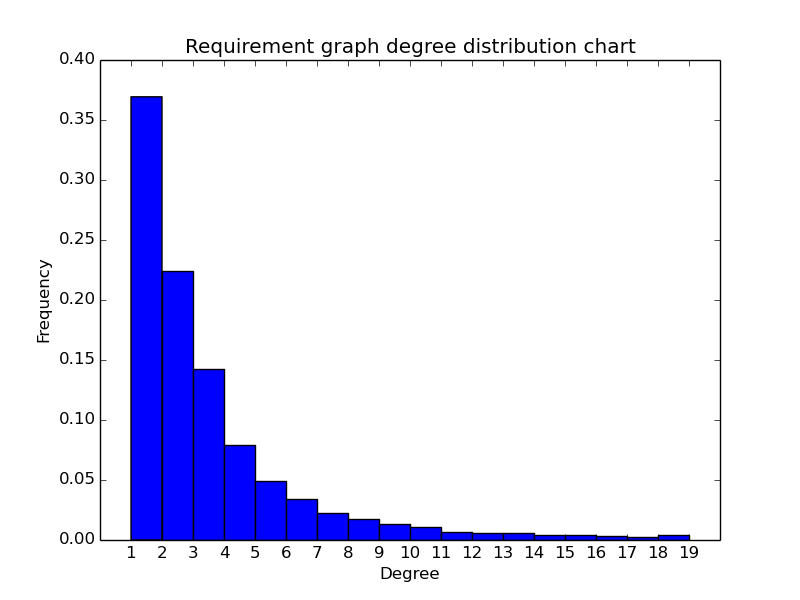
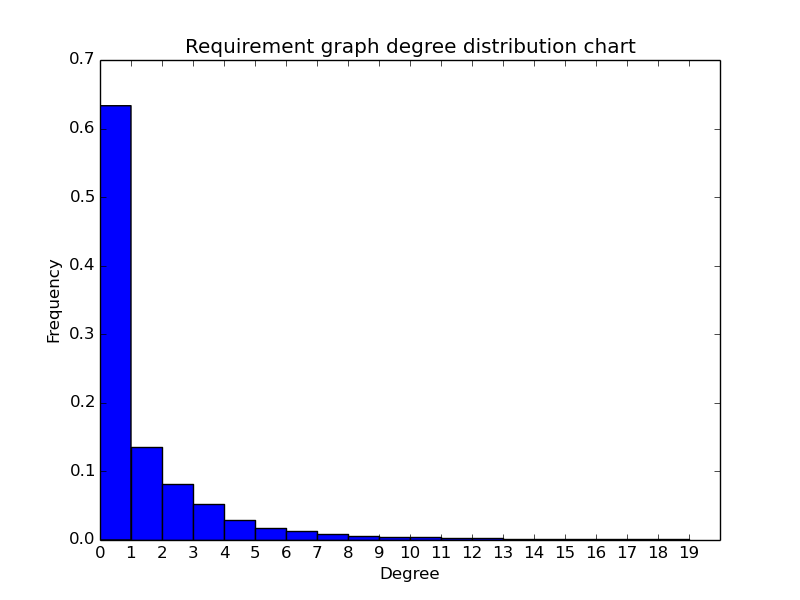
better degree distributioning

Changed region(s): [[0.0312, 0.15, 0.875, 0.93], [0.0625, 0.09, 0.125, 0.12]]

diff --git a/ap/analysis/requirements.py b/ap/analysis/requirements.py
@@ -6,18 +6,53 @@ import matplotlib
 matplotlib.use('Agg')
 import matplotlib.pyplot as plt
 
-def get_edgelist(s, names=False):
-	"""Return edgelist for current Package requirement graph."""
+def get_nodelist(s):
+	"""Return node list for current Package requirement graph."""
+	return [p[0] for p in s.query(db.Package.id).all()]
+
+def get_edgelist(s):
+	"""Return edge list for current Package requirement graph."""
 	return s.query(db.Package.id, db.Requirement.requirement_id).join(db.Release).filter(db.Release.id==db.Requirement.release_id).filter(db.Release.current==True).filter(db.Requirement.requirement_id.__ne__(None)).all()
 
-def degree_rank_chart(edgelist, filename):
-	"""Create a degree rank chart."""
-	g = nx.DiGraph(edgelist)
+def degree_distribution_chart(s, filename):
+	"""Create a degree distribution chart."""
+	g = nx.DiGraph()
+	g.add_nodes_from(get_nodelist(s))
+	g.add_edges_from(get_edgelist(s))
 	deg_seq = sorted(nx.degree(g).values(), reverse=True)
-	plt.loglog(deg_seq, 'b-')
-	plt.title('Degree rank chart')
-	plt.ylabel('degree')
-	plt.xlabel('rank')
+	plt.hist(deg_seq, bins=range(0, 20, 1), normed=True)
+	plt.xticks(range(0, 20, 1))
+	plt.title('Requirement graph degree distribution chart')
+	plt.xlabel('Degree')
+	plt.ylabel('Frequency')
+	plt.savefig(filename)
+	plt.close()
+
+def in_degree_distribution_chart(s, filename):
+	"""Create a in degree distribution chart."""
+	g = nx.DiGraph()
+	g.add_nodes_from(get_nodelist(s))
+	g.add_edges_from(get_edgelist(s))
+	deg_seq = sorted(g.in_degree().values(), reverse=True)
+	plt.hist(deg_seq, bins=range(0, 20, 1), normed=True)
+	plt.xticks(range(0, 20, 1))
+	plt.title('Requirement graph indegree distribution chart')
+	plt.xlabel('Indegree')
+	plt.ylabel('Frequency')
+	plt.savefig(filename)
+	plt.close()
+
+def out_degree_distribution_chart(s, filename):
+	"""Create a in degree distribution chart."""
+	g = nx.DiGraph()
+	g.add_nodes_from(get_nodelist(s))
+	g.add_edges_from(get_edgelist(s))
+	deg_seq = sorted(g.out_degree().values(), reverse=True)
+	plt.hist(deg_seq, bins=range(0, 20, 1), normed=True)
+	plt.xticks(range(0, 20, 1))
+	plt.title('Requirement graph outdegree distribution chart')
+	plt.xlabel('Outdegree')
+	plt.ylabel('Frequency')
 	plt.savefig(filename)
 	plt.close()
 
